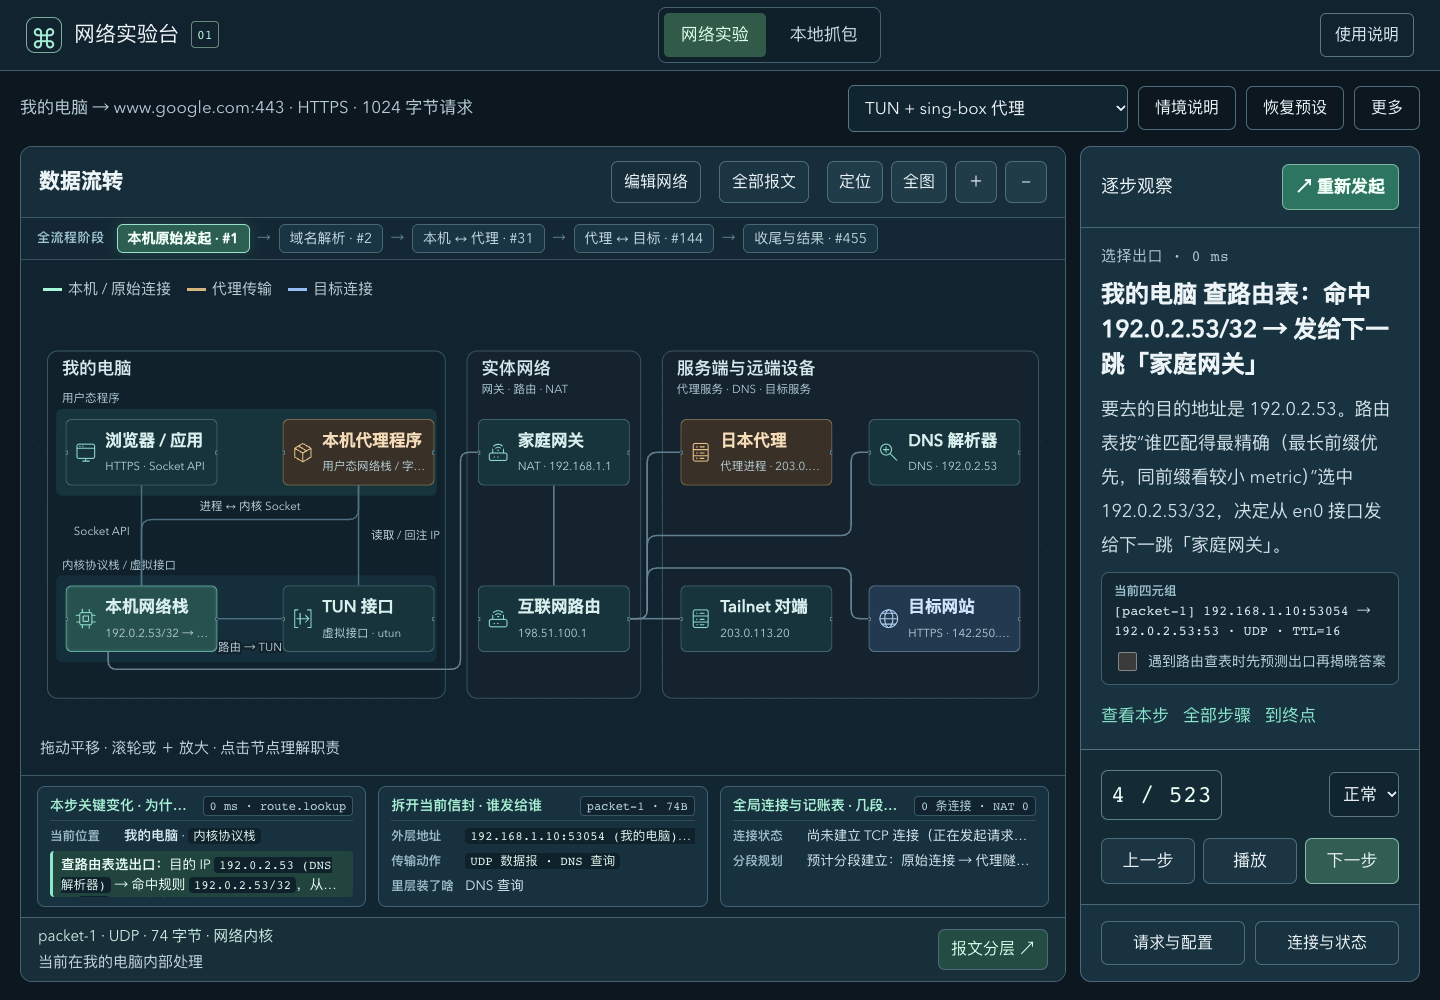
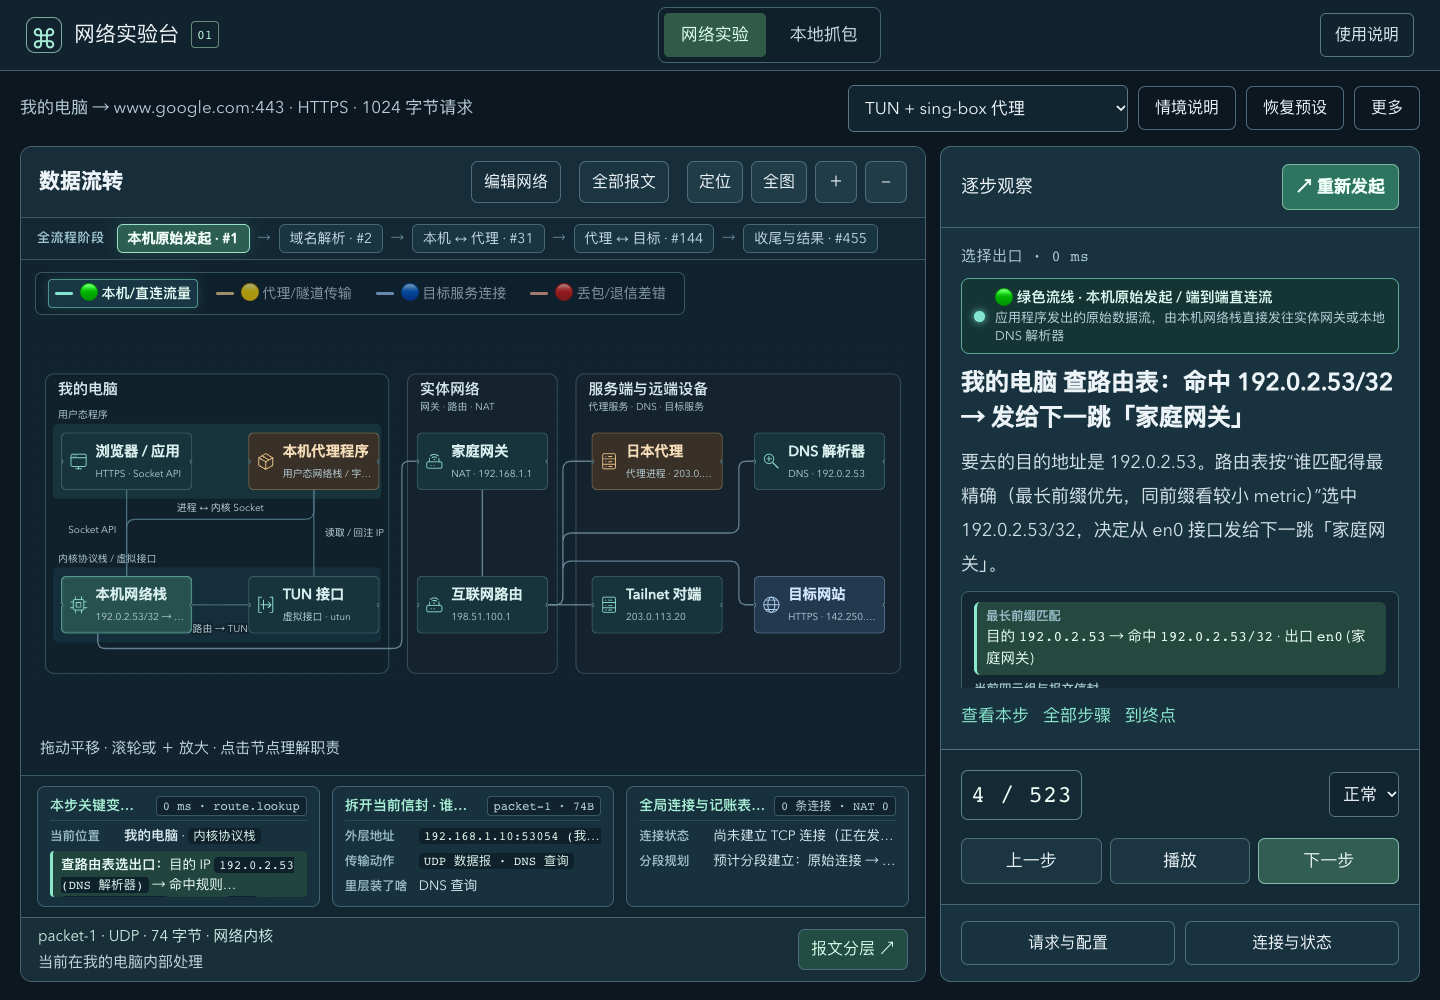
chore: 更新线上验收截图与测试脚本

diff --git a/scripts/network-lab-audit.py b/scripts/network-lab-audit.py
@@ -73,6 +73,9 @@ with tempfile.TemporaryDirectory(prefix="network-lab-audit-") as temporary:
                     "ERR_ABORTED",
                     "ERR_CONNECTION_RESET",
                     "ERR_SOCKET_NOT_CONNECTED",
+                    "ERR_NETWORK_IO_SUSPENDED",
+                    "ERR_PROXY_CONNECTION_FAILED",
+                    "ERR_INTERNET_DISCONNECTED",
                 )
             ):
                 cancelled.append(entry)
